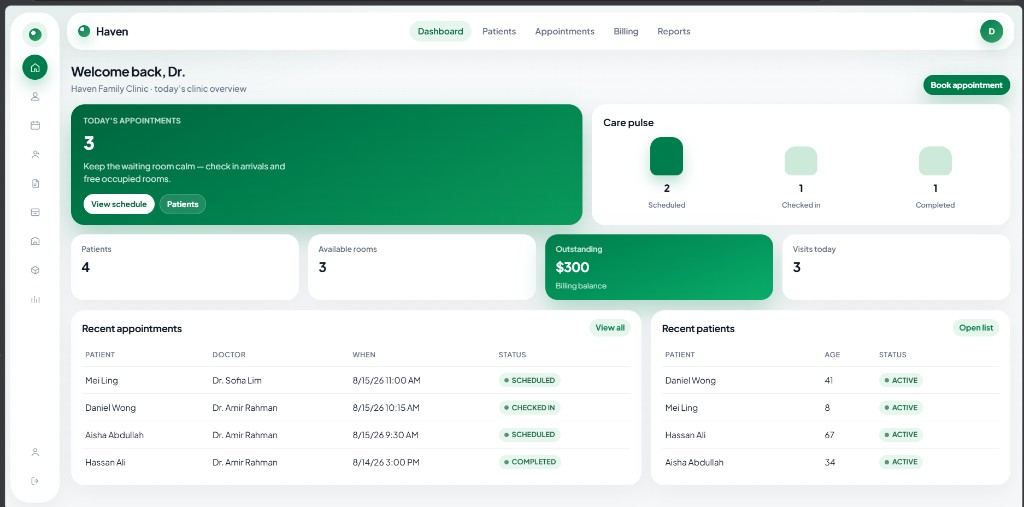
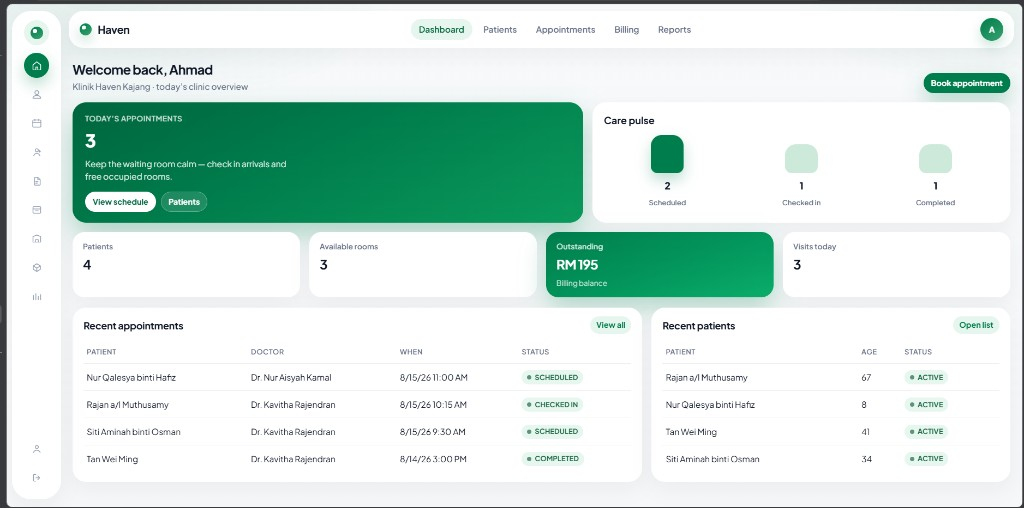
Update README dashboard screenshot to the Malaysian clinic workspace.

diff --git a/README.md b/README.md
@@ -27,7 +27,7 @@ This is the clinic workspace after login. The layout is built around a calm fore
 | **Recent appointments** | Latest visits with patient, doctor, time, and status badges |
 | **Recent patients** | Newest people under care, with age and status |
 
-The screenshot above is the live demo clinic using seeded sample data. After this update, the demo clinic is **Klinik Haven Kajang** with Malaysian patient and doctor names.
+The screenshot above is the live demo: **Klinik Haven Kajang**, Malaysian patient and doctor names, and billing in **RM**.
 
 ---
 
